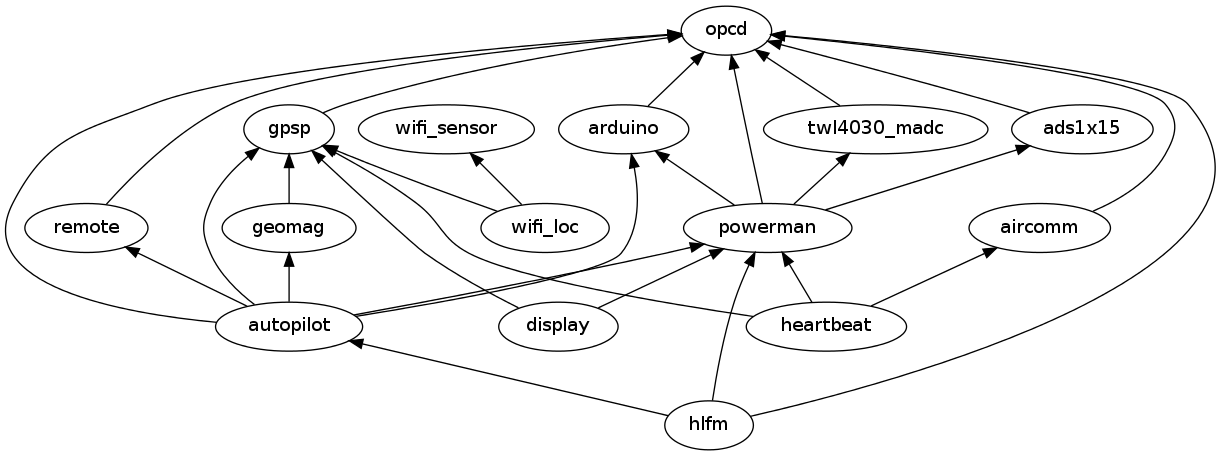
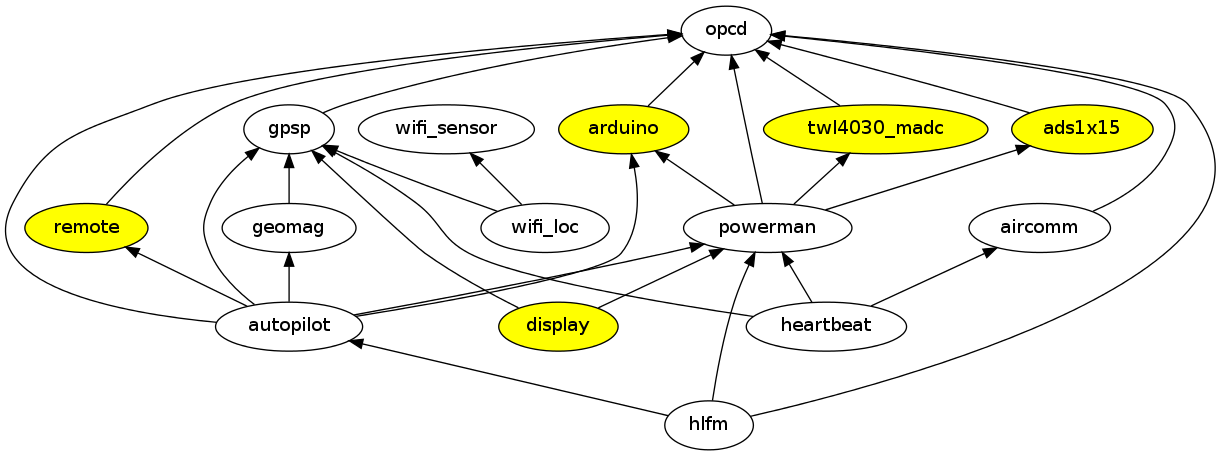
added colored platform specific graphvis output for services depgraph

diff --git a/scripts/services_yaml_to_dot.py b/scripts/services_yaml_to_dot.py
@@ -36,6 +36,11 @@ print 'digraph {'
 print 'rankdir = BT;'
 for comp in svs:
    try:
+      svs[comp]['platforms']
+      print comp, '[fillcolor="yellow", style="filled"];'
+   except:
+      pass
+   try:
       for dep in svs[comp]['depends']:
          print comp, '->', dep
    except:

diff --git a/README.md b/README.md
@@ -68,4 +68,4 @@ The services dependencies of PenguPilot are depicted in the figure below:
 
 ![Services Dependency Graph](https://raw.github.com/PenguPilot/PenguPilot/master/doc/ServicesGraph.png)
 
-Some of these services are only available on a specific platform, as specified in file config/services.yaml.
+The services indicated in yellow are platform-specific, as specified in file config/services.yaml.
